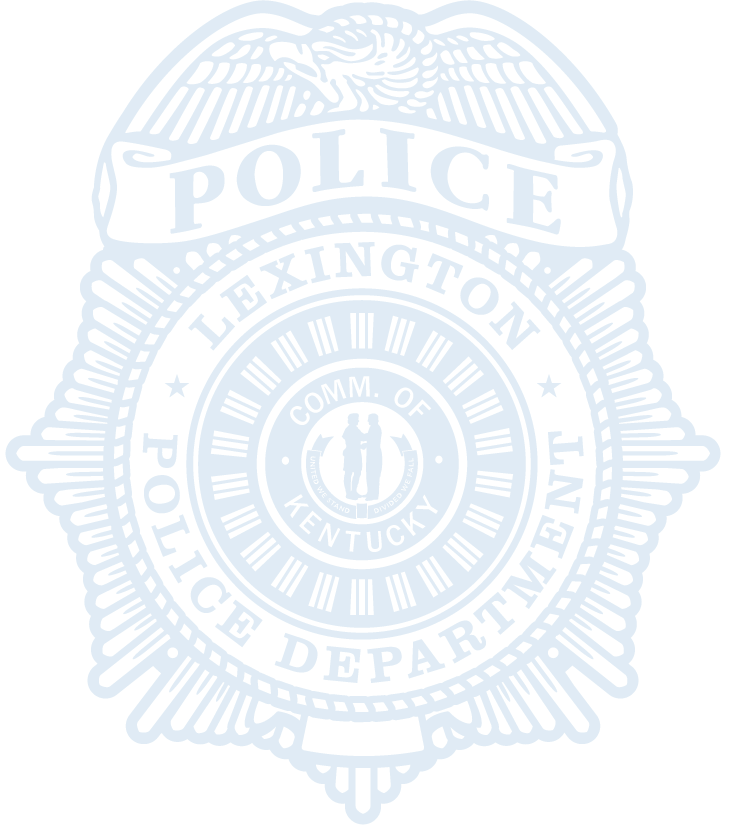
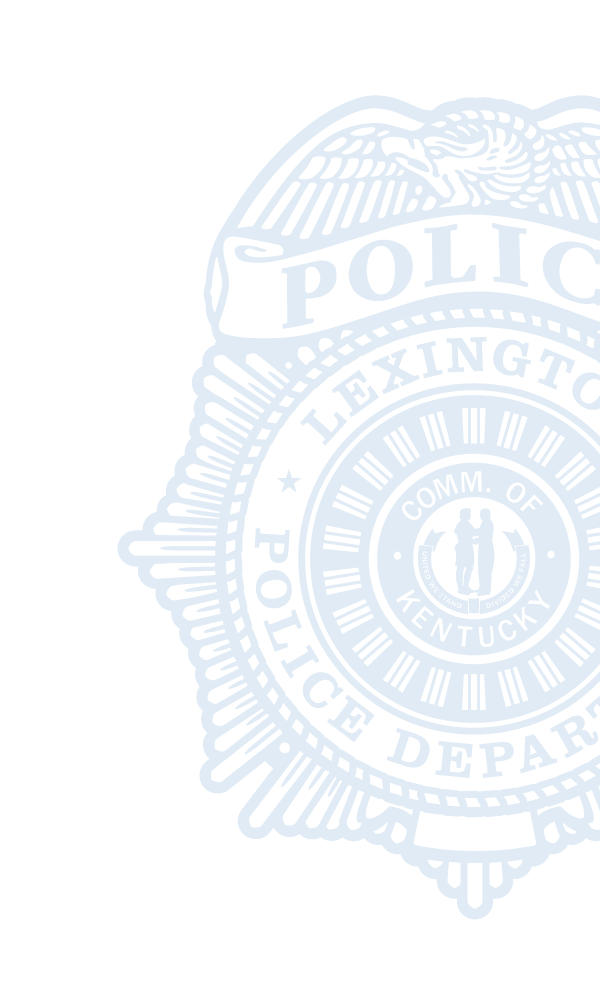
Switchable Themes based on related department.

diff --git a/themes/custom/lex/css/styles.css b/themes/custom/lex/css/styles.css
@@ -4970,15 +4970,6 @@ label {
   .lex-search .lex-submit-drupalprovided {
     display: none; }
 
-@media screen and (min-width: 600px) {
-  .lex-sidenav-list-policerecruitment {
-    background: url(../img/LPD_Badge_Blue_Fade.png);
-    background-repeat: no-repeat;
-    background-position: right -480px top; } }
-@media screen and (min-width: 1201px) {
-  .lex-sidenav-list-policerecruitment {
-    background-position: right -320px top; } }
-
 .lex-sidenav-list li {
   border: none; }
 .lex-sidenav-list a {
@@ -5339,5 +5330,8 @@ table.directory {
     background: #BFD5EA; }
   table.directory td:nth-child(3) {
     white-space: nowrap; }
+
+body.lex-police {
+  background: url(../img/LPD_Badge_Blue_Fade.png) fixed bottom right no-repeat; }
 
 /*# sourceMappingURL=styles.css.map */

diff --git a/themes/custom/lex/scss/components/_sidenav.scss b/themes/custom/lex/scss/components/_sidenav.scss
@@ -1,14 +1,3 @@
-.lex-sidenav-list-policerecruitment {
-  @include media($medium-screen) {
-    background: url(../img/LPD_Badge_Blue_Fade.png);
-    background-repeat: no-repeat;
-    background-position: right -480px top;
-  }
-  @include media($large-screen) {
-    background-position: right -320px top;
-  }
-}
-
 .lex-sidenav-list {
   li {
     border: none;

diff --git a/themes/custom/lex/scss/styles.scss b/themes/custom/lex/scss/styles.scss
@@ -344,4 +344,6 @@ input:focus, input[type=search]:focus {
 @import './_lexcalendar.sass';
 @import './_directory_table.sass';
 
+// Department sheets
+@import './sections/_police.sass';
 

diff --git a/themes/custom/lex/scss/sections/_police.sass b/themes/custom/lex/scss/sections/_police.sass
@@ -1,0 +1,3 @@
+body.lex-police
+  background: url(../img/LPD_Badge_Blue_Fade.png) fixed bottom right no-repeat
+  background-size: auto 50%

diff --git a/modules/lex_themecontrol/src/LexThemeNegotiator.php b/modules/lex_themecontrol/src/LexThemeNegotiator.php
@@ -1,0 +1,38 @@
+<?php
+
+namespace Drupal\lex_themecontrol;
+
+use Drupal\Core\Theme\DefaultNegotiator;
+use Drupal\Core\Routing\RouteMatchInterface;
+use Drupal\node\NodeInterface;
+
+/**
+ * Switches Theme according to the related department of the site.
+ */
+class LexThemeNegotiator extends DefaultNegotiator {
+
+  /**
+   * {@inheritdoc}
+   */
+  public function determineActiveTheme(RouteMatchInterface $route_match) {
+    $node = $route_match->getParameter('node');
+
+    if ($node instanceof NodeInterface) {
+      try {
+        $departments = $node->get('field_related_departments')->getValue();
+
+        if (is_array($departments)) {
+          foreach ($departments as $department) {
+            switch($department['target_id']) {
+              case 2: return 'lex_police';
+            }
+          }
+        }
+      }
+      catch ( \InvalidArgumentException $e) {}
+    }
+
+    return NULL;
+  }
+
+}
